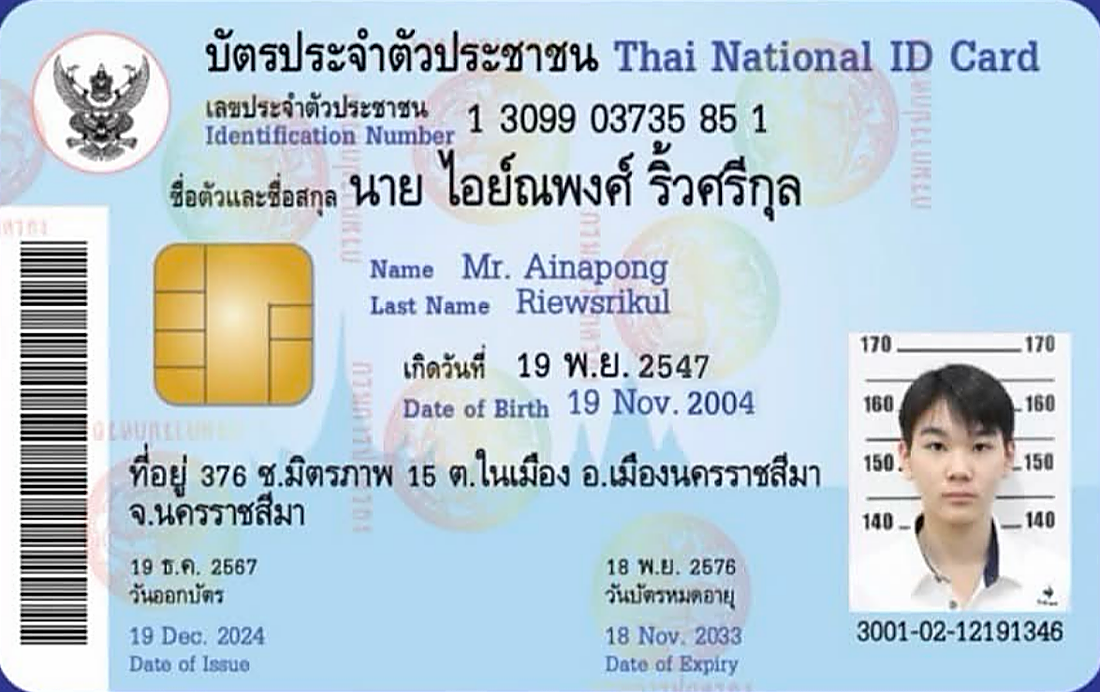
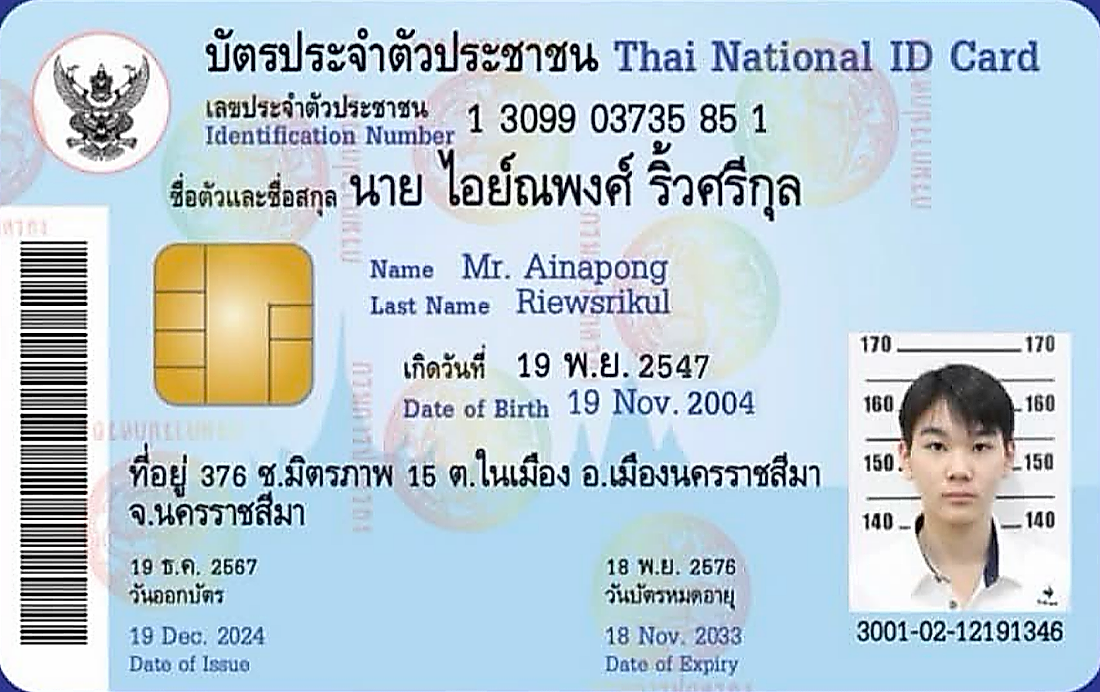
Sharpen front card images and use hi-res source in expanded view

diff --git a/components/app/hero-card.tsx b/components/app/hero-card.tsx
@@ -11,11 +11,13 @@ function CardFace({
   label,
   back = false,
   blurred = false,
+  hiRes = false,
 }: {
   face: CardImage
   label: string
   back?: boolean
   blurred?: boolean
+  hiRes?: boolean
 }) {
   return (
     <div
@@ -24,7 +26,7 @@ function CardFace({
       <img
         src={face.large}
         srcSet={`${face.small} 640w, ${face.large} 1100w`}
-        sizes="640px"
+        sizes={hiRes ? '1100px' : '640px'}
         alt={label}
         draggable={false}
         decoding="async"
@@ -64,7 +66,7 @@ export function HeroCard({ card, onOpenInfo, locked = false, onRequestUnlock }: 
     flip()
   }
 
-  const renderCard = (style?: React.CSSProperties, interactive = false) => (
+  const renderCard = (style?: React.CSSProperties, interactive = false, hiRes = false) => (
     <div
       className="relative [container-type:inline-size] [perspective:1200px]"
       style={style}
@@ -74,8 +76,8 @@ export function HeroCard({ card, onOpenInfo, locked = false, onRequestUnlock }: 
         className="relative aspect-[1.585/1] w-full shadow-xl transition-transform duration-[1100ms] ease-in-out [transform-style:preserve-3d]"
         style={{ transform: `rotateY(${flipped ? -180 : 0}deg)`, borderRadius: '4.5cqw' }}
       >
-        <CardFace face={card.front} label="บัตรด้านหน้า" blurred={locked} />
-        <CardFace face={card.back} label="บัตรด้านหลัง" back blurred={locked} />
+        <CardFace face={card.front} label="บัตรด้านหน้า" blurred={locked} hiRes={hiRes} />
+        <CardFace face={card.back} label="บัตรด้านหลัง" back blurred={locked} hiRes={hiRes} />
       </div>
       {locked && (
         <button
@@ -133,7 +135,7 @@ export function HeroCard({ card, onOpenInfo, locked = false, onRequestUnlock }: 
               <FlipIcon className="size-7" />
             </button>
           </div>
-          <div className="rotate-90">{renderCard({ width: 'min(78dvh, 140vw, 40rem)' })}</div>
+          <div className="rotate-90">{renderCard({ width: 'min(78dvh, 140vw, 40rem)' }, false, true)}</div>
         </div>
       )}
     </div>
